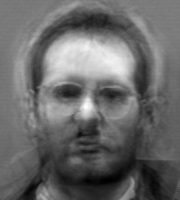
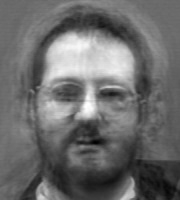
Updated solutions and plotting file, re-generated the figures.

diff --git a/Applications/FacialRecognition/FacialRecognition.tex b/Applications/FacialRecognition/FacialRecognition.tex
@@ -39,7 +39,8 @@ Define the \emph{mean face} $\mu$ to be the average of each face vector:
 Download the \li{faces94} face image database found at \url{http://cswww.essex.ac.uk/mv/allfaces/faces94.html} and extract the files.
 You should now have a directory named ``faces94", which contains multiple face images each of a large collection of individuals.
 We will construct a database of face images by selecting exactly one face image for each person in the directory.
-Execute the following code to construct the collection of faces:
+Execute the following code to construct the collection of faces (you may need to change the variable \li{path} to point to the location
+of the \li{faces94} directory on your machine):
 \begin{lstlisting}
 >>> import numpy as np
 >>> from os import walk
@@ -48,8 +49,9 @@ Execute the following code to construct the collection of faces:
 >>> w = 200
 >>> h = 180
 >>> # traverse the directory, get one image per subdirectory
->>> >>> faces = []
->>> for (dirpath, dirnames, filenames) in walk("./faces94"):
+>>> path = "./faces94"
+>>> faces = []
+>>> for (dirpath, dirnames, filenames) in walk(path):
 >>>     for f in filenames:
 >>>         if f[-3:]=="jpg": # only get jpg images
 >>>             # load image, convert to grayscale, flatten into vector
@@ -155,7 +157,7 @@ to a positive singular value) an \emph{eigenface}.
 \begin{subfigure}[b]{0.3\textwidth}
 \includegraphics[width=\textwidth]{eigenface2.png}
 \end{subfigure}
-\caption{First three eigenfaces of University of Essex male data}
+\caption{The top three eigenfaces.}
 \label{facialRecognition:eigenfaces}
 \end{figure}
 \begin{problem}
@@ -192,10 +194,10 @@ Hence the matrix $\hat{A}$ defined by
 contains as its columns the coordinate vectors of the face images in the top $n$ eigenfaces basis.
 Note that $\hat{A}$ is an $n \times k$ matrix, and is therefore much smaller than the original $l \times k$ matrix $A$.
 \begin{problem}
-\ref{prob:top_n}
+\label{prob:top_n}
 The columns of the matrix \li{U} that you computed in problem \ref{prob:svd} are already ordered according to descending singular values.
-Thus, the first $n$ columns of $\li{U}$ give the top $n$ eigenfaces.
-Write a function that takes as input \li{U}, \li{A}, and an integer $n$, and returns the matrices $U_n$ and $\hat{A}_n$ as described above.
+Thus, the first $n$ columns of \li{U} give the top $n$ eigenfaces.
+Write a function \li{nEigenfaces} that takes as input \li{U}, \li{A}, and an integer $n$, and returns the matrices $U_n$ and $\hat{A}_n$ as described above.
 \end{problem}
 \begin{figure}
 \begin{subfigure}[b]{0.3\textwidth}
@@ -204,11 +206,11 @@ Write a function that takes as input \li{U}, \li{A}, and an integer $n$, and ret
 \end{subfigure}
 \begin{subfigure}[b]{0.3\textwidth}
 \includegraphics[width=\textwidth]{rebuiltHalf.png}
-\caption{Half of the eigenfaces.}
+\caption{1/2 of the eigenfaces.}
 \end{subfigure}
 \begin{subfigure}[b]{0.3\textwidth}
 \includegraphics[width=\textwidth]{rebuiltFourth.png}
-\caption{Fourth of the eigenfaces.}
+\caption{1/4 of the eigenfaces.}
 \end{subfigure}
 \caption{Image rebuilt with varying number of eigenfaces}
 \label{facialRecognition:rebuiltImage}
@@ -234,7 +236,7 @@ Doing so yields the low-dimensional representation $\hat{g}$, given by
 \]
 We then return the matching face image $f_{i^*}$, where
 \[
-i^* = \text{argmax}_i \|\hat{f}_i - \hat{g}\|_2.
+i^* = \text{argmin}_i \|\hat{f}_i - \hat{g}\|_2.
 \]
 \begin{problem}
 \label{prob:nearest}
@@ -253,7 +255,7 @@ Use the following code to build an array of additional images from the dataset:
 >>> # let's gather some random images from the directory, and try to recognize them!
 >>> n_tests = 10
 >>> test_files = []
->>> for (dirpath, dirnames, filenames) in walk("./faces94"):
+>>> for (dirpath, dirnames, filenames) in walk(path):
 >>>     for f in filenames:
 >>>         if f[-3:]=="jpg": # only get jpg images
 >>>             test_files.append(dirpath+"/"+f)

diff --git a/Applications/FacialRecognition/solutions.py b/Applications/FacialRecognition/solutions.py
@@ -1,3 +1,99 @@
+##################################
+#  Solutions to Current Version  #
+##################################
+import numpy as np
+from scipy.linalg import norm, svd
+from os import walk
+from scipy.ndimage import imread
+from matplotlib import pyplot as plt
+import matplotlib.cm as cm 
+from random import sample
+
+# convenience function for plotting flattened grayscale images of width 200, height 180
+def show(im, w=200, h=180):
+    plt.imshow(im.reshape((w,h)), cmap=cm.Greys_r)
+    plt.show()
+def show2(im1, im2, w=200, h=180):
+    plt.subplot(121)
+    plt.imshow(im1.reshape((w,h)), cmap=cm.Greys_r)
+    plt.subplot(122)
+    plt.imshow(im2.reshape((w,h)), cmap=cm.Greys_r)
+    plt.show()
+
+def getFaces(path="./faces94"):
+    # these are the dimensions of the images
+    w = 200
+    h = 180
+    
+    # traverse the directory, get one image per subdirectory
+    faces = []
+    for (dirpath, dirnames, filenames) in walk(path):
+        for f in filenames:
+            if f[-3:]=="jpg": # only get jpg images
+                # load image, convert to grayscale, flatten into vector
+                face = imread(dirpath+"/"+f).mean(axis=2).ravel() 
+                faces.append(face)
+                break
+                
+    # put all the face vectors column-wise into a matrix
+    F = np.array(faces).T
+    return F
+
+F = getFaces()
+
+# we now calculate and plot the mean face
+mu = F.mean(axis=1)
+show(mu)
+
+# shift each face by the mean, show an example of a mean-shifted face
+A = F - mu.reshape((len(mu), 1))
+show(A[:,0])
+
+# calculate svd of A
+U,Sig,Vh = svd(A, full_matrices=False)
+
+# show one of the eigenfaces
+show(U[:,10])
+
+def nEigenfaces(U, A, n):
+    """
+    Return U_n and Ahat_n as described in lab.
+    """
+    Un = U[:,:n]
+    return Un, Un.T.dot(A)
+
+# project the face vectors onto an eigenface subspace, plot one of them
+n_faces = 38
+Un, Ahat = nEigenfaces(U,A,n_faces)
+
+def findNearest(M, query):
+    """
+    Return the index of the column of M that is closest to g wrt Euclidean distance.
+    """
+    m = M.shape[0]
+    return np.argmin(np.linalg.norm(M-query.reshape((m,1)), axis=0))
+    
+# let's gather some random images from the directory, and try to recognize them!
+n_tests = 10
+test_files = []
+for (dirpath, dirnames, filenames) in walk("./faces94"):
+    for f in filenames:
+        if f[-3:]=="jpg": # only get jpg images
+            test_files.append(dirpath+"/"+f)
+test_files = sample(test_files, n_tests)
+test_images = np.array([imread(f).mean(axis=2).ravel() for f in test_files]).T
+
+# here is the recognition part
+for i in xrange(n_tests):
+    ghat = U[:,:n_faces].T.dot(test_images[:,i]-mu)
+    ind = findNearest(Ahat, ghat)
+    show2(test_images[:,i], F[:,ind])
+
+
+##################################
+#    Solutions to Old Version    #
+##################################
+
 import re #For regular expressions
 
 import numpy as np

diff --git a/Applications/FacialRecognition/plotting.py b/Applications/FacialRecognition/plotting.py
@@ -1,13 +1,50 @@
 import matplotlib
 matplotlib.rcParams = matplotlib.rc_params_from_file('../../matplotlibrc')
-
 import numpy as np
-
-import solutions as sol
-
 from scipy.misc import imsave
+from scipy.linalg import svd
+from os import walk
+from scipy.ndimage import imread
 
+def getFaces(path="./faces94"):
+    # these are the dimensions of the images
+    w = 200
+    h = 180
+    
+    # traverse the directory, get one image per subdirectory
+    faces = []
+    for (dirpath, dirnames, filenames) in walk(path):
+        for f in filenames:
+            if f[-3:]=="jpg": # only get jpg images
+                # load image, convert to grayscale, flatten into vector
+                face = imread(dirpath+"/"+f).mean(axis=2).ravel() 
+                faces.append(face)
+                break
+                
+    # put all the face vectors column-wise into a matrix
+    F = np.array(faces).T
+    return F
 
+def plotMeanFace(mu):
+    imsave("meanFace.png", mu.reshape((200, 180)))
+
+def plotDiffFaces(A):
+    for j, i in enumerate([0,20,50]):
+        imsave("differenceFace{0}.png".format(j),A[:,i].reshape((200,180)))
+
+def plotEigenFaces(U):
+    for i in xrange(3):
+        imsave("eigenface{0}.png".format(i),U[:,i].reshape((200,180)))
+
+def plotReconstructed(U, A, mu):
+    imsave("rebuiltAll.png", (A[:,20]+mu).reshape((200,180)))
+    s = U.shape[1]
+    r1 = U[:,:s/2].dot(U[:,:s/2].T.dot(A[:,20])) + mu
+    r2 = U[:,:s/4].dot(U[:,:s/4].T.dot(A[:,20])) + mu
+    imsave("rebuiltHalf.png", r1.reshape((200,180)))
+    imsave("rebuiltFourth.png", r2.reshape((200,180)))
+
+# below are the plotting functions from a previous version
 def checkMeanImage(faces):
     """
     Plot the mean face of a facial recognition database
@@ -44,10 +81,12 @@ def checkRebuildImage(faces,image):
     
     
 if __name__ == "__main__":
-    faces = sol.FacialRec("./faces94/male/",30)
-    images,dim = sol.getImages("./faces94/male/")
-    
-    checkMeanImage(faces)
-    checkDifferenceFaces(faces)
-    checkEigenFaces(faces)
-    checkRebuildImage(faces,images[0])
+    F = getFaces(path="../../../faces94")
+    print F.shape
+    mu = F.mean(axis=1)
+    A = F - mu.reshape((len(mu), 1))
+    U,Sig,Vh = svd(A, full_matrices=False)
+    plotMeanFace(mu)
+    plotDiffFaces(A)
+    plotEigenFaces(U)
+    plotReconstructed(U, A, mu)
